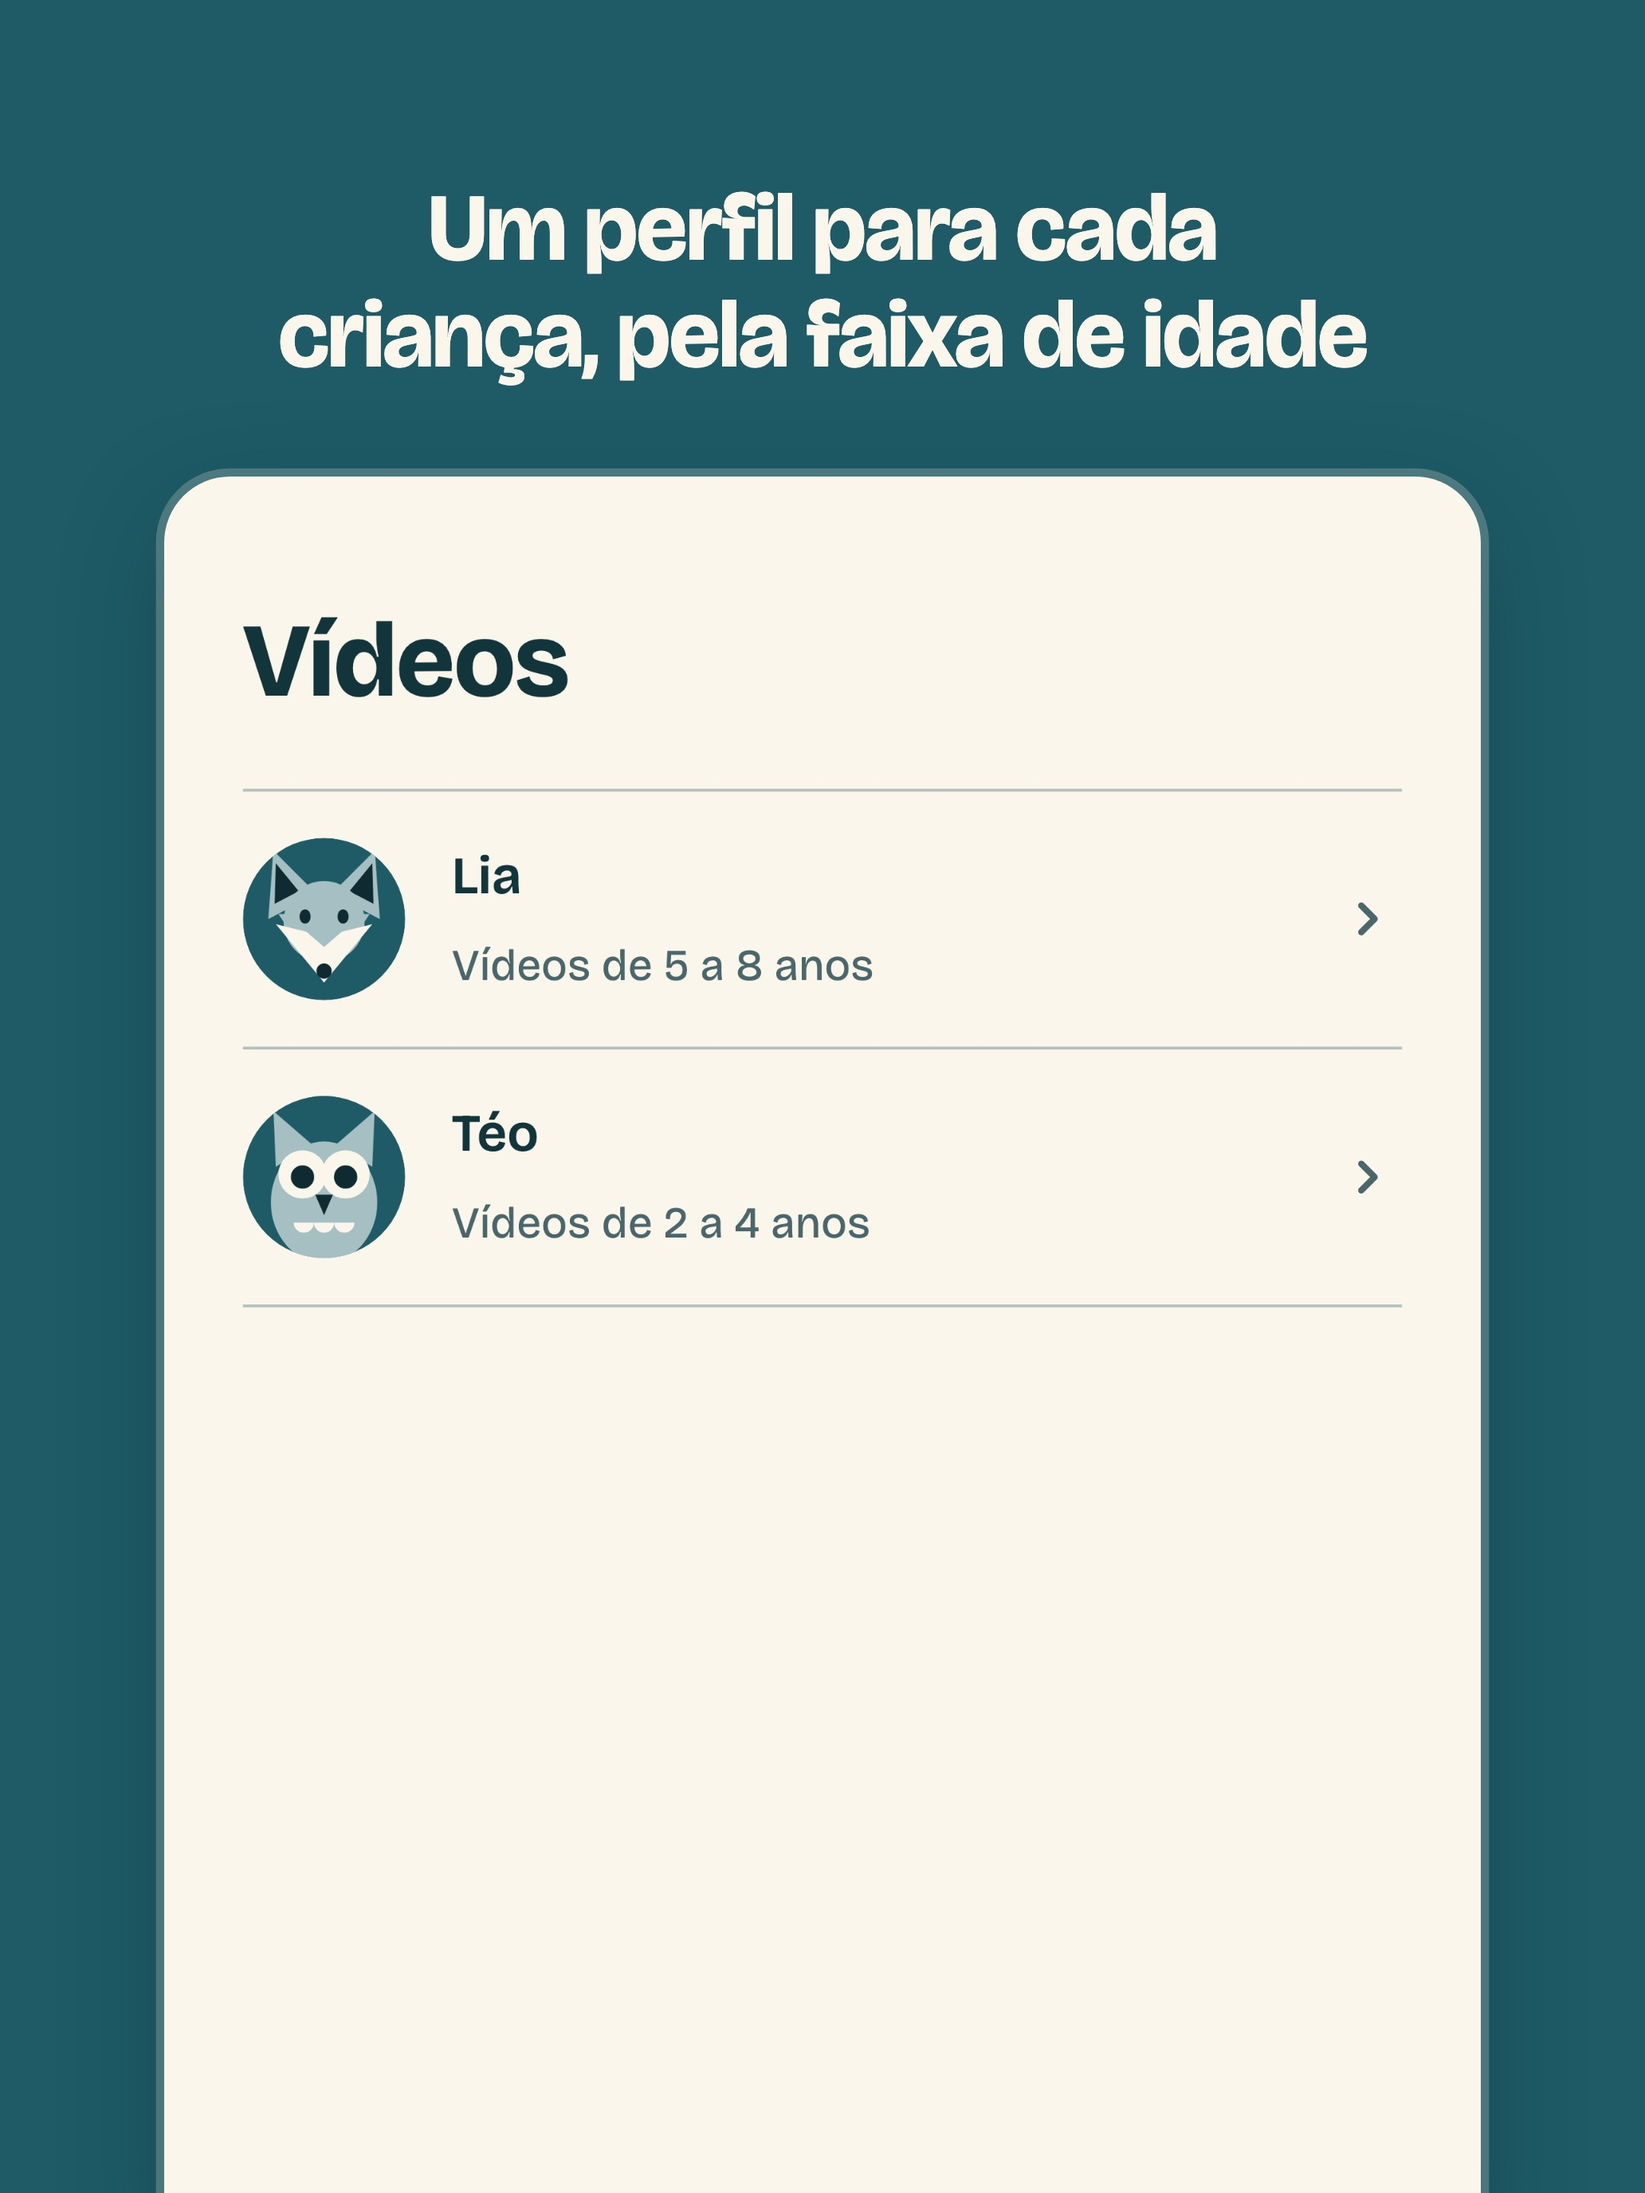
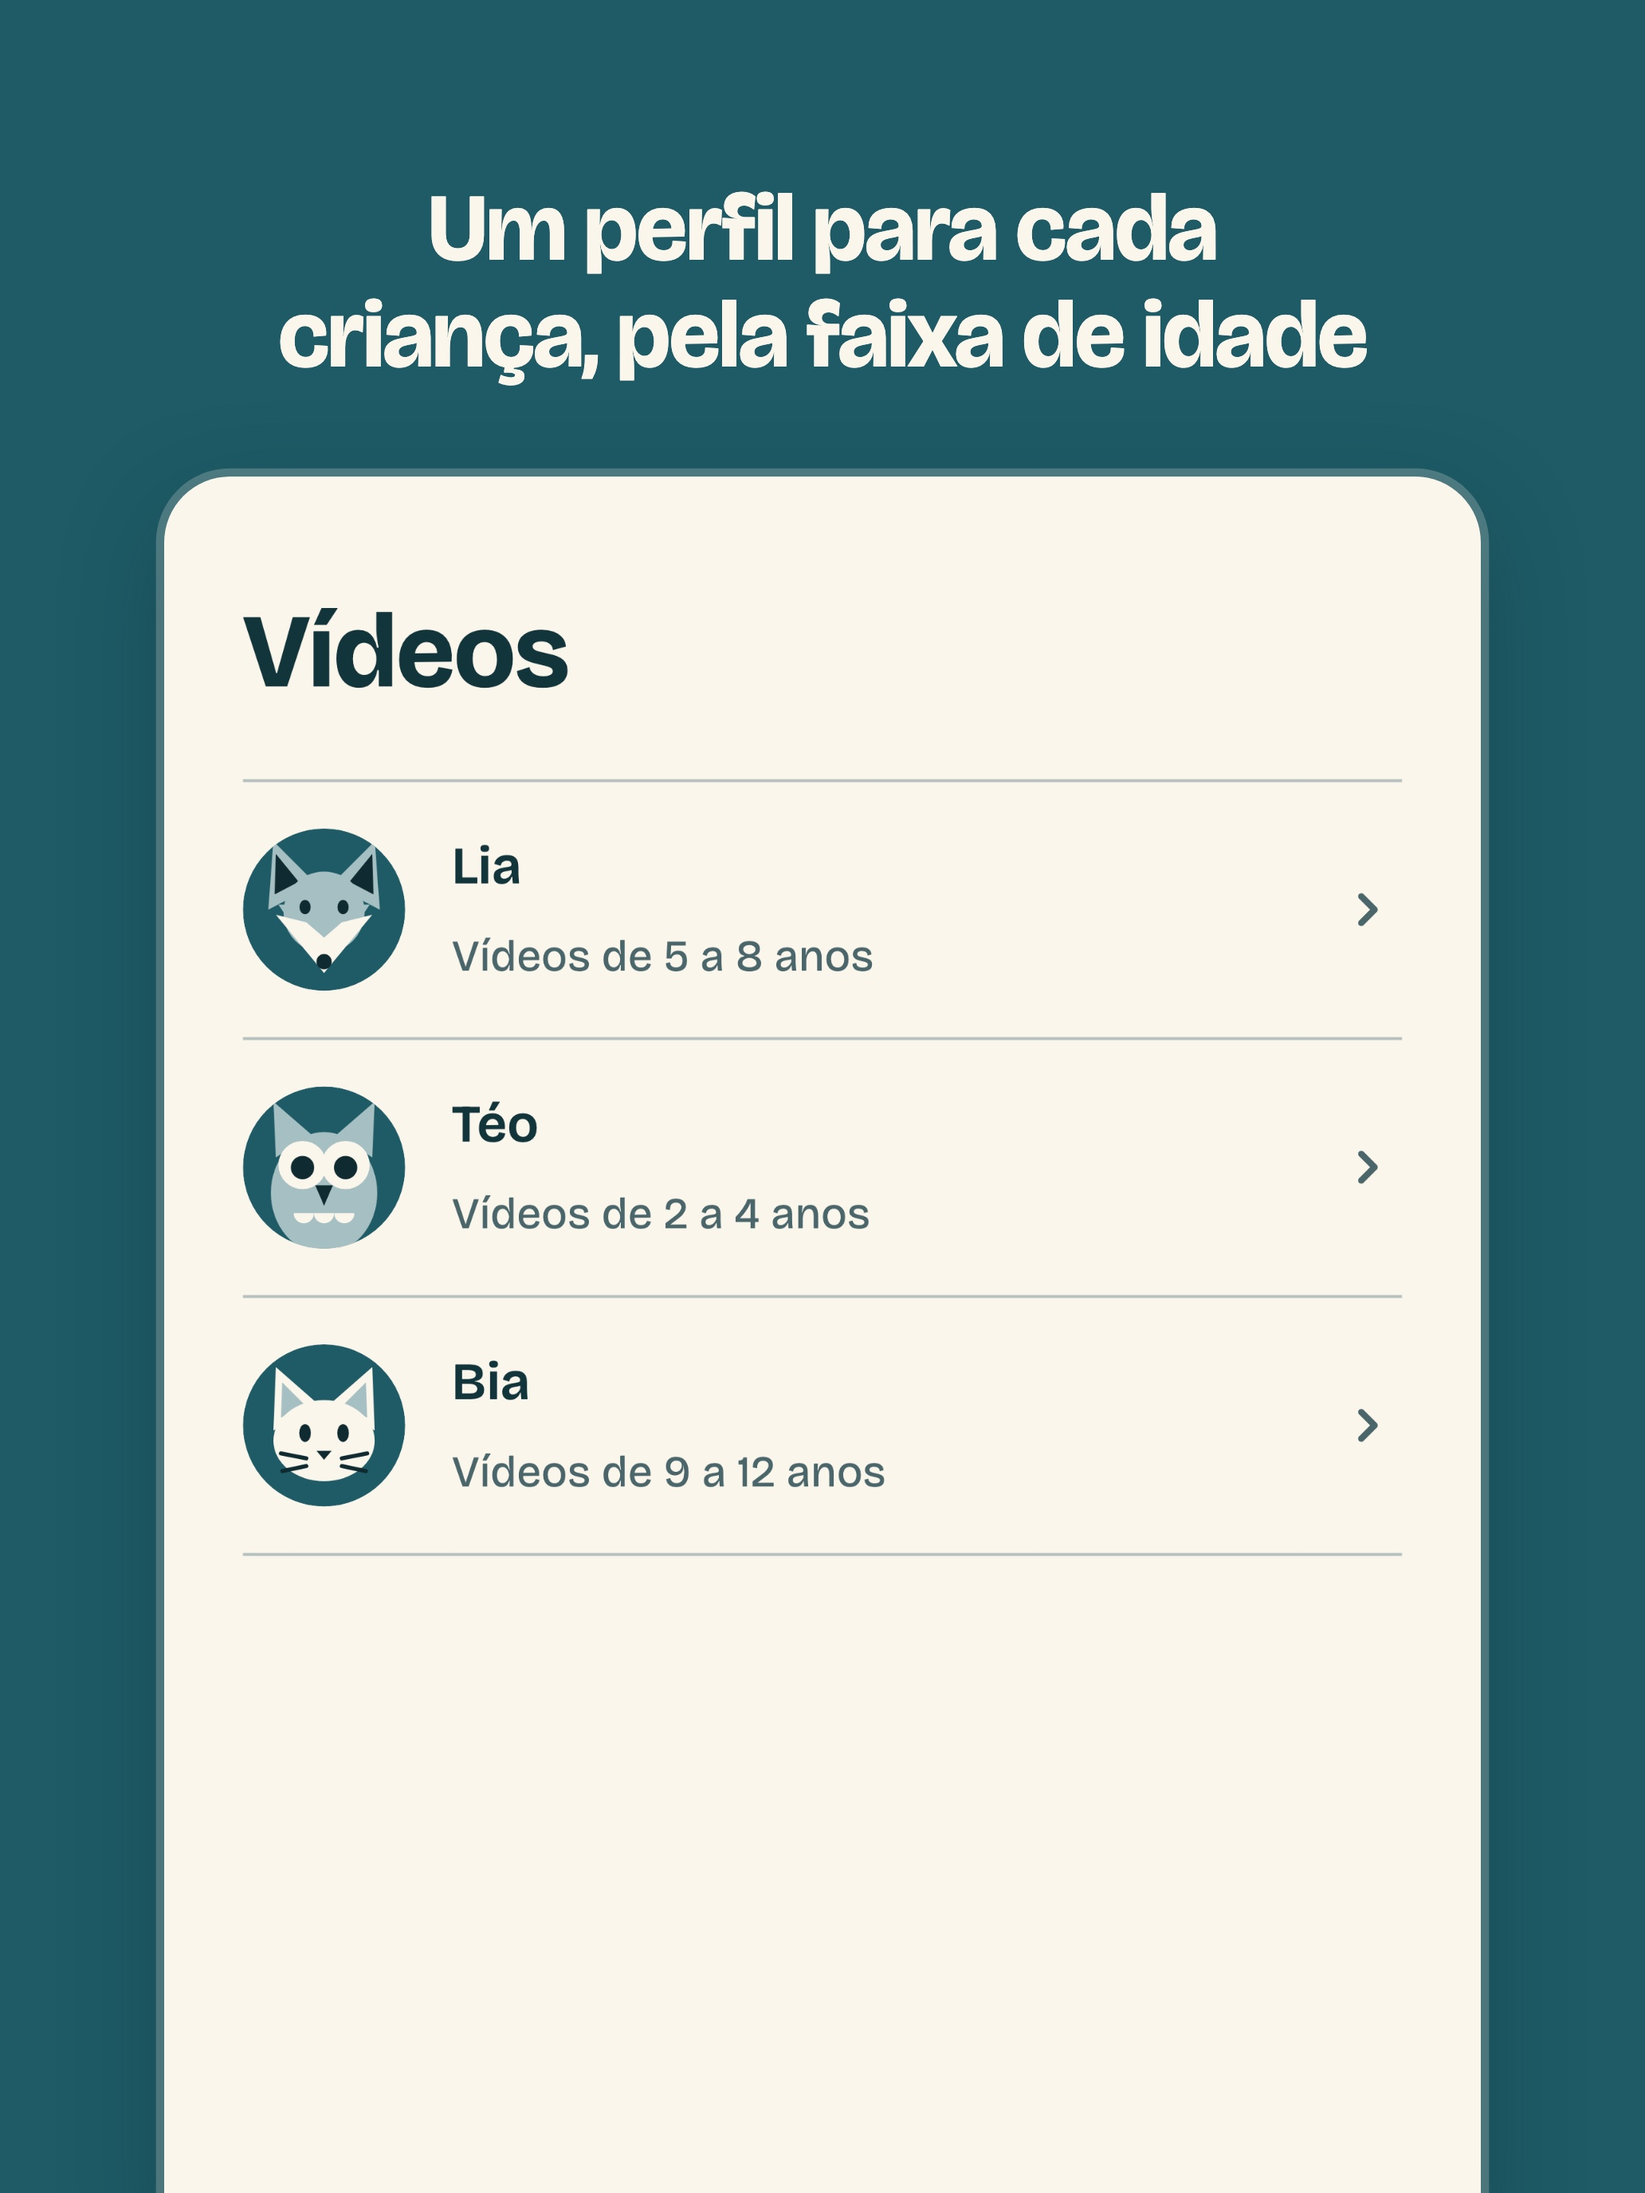
feat(app): a third child and device fill the store frames
Bia (cat, 9 to 12) and her tablet join the demo data. The longer lists sit higher on the iPad, so its 04 and 07 crops start a little higher to keep the page titles whole.

diff --git a/app/test/store_screens/store_screens_test.dart b/app/test/store_screens/store_screens_test.dart
@@ -50,10 +50,12 @@ class Frame {
 
 final outDir = Directory('build/store_screens/raw');
 
-/// Two fictional children: Lia (fox, 5 to 8) and Téo (owl, up to 4).
+/// Three fictional children: Lia (fox, 5 to 8), Téo (owl, up to 4) and
+/// Bia (cat, 9 to 12).
 final demoFamily = familyWith([
   minorJson('m1', 'Lia'),
   minorJson('m2', 'Téo', avatar: 'owl', ageBand: 'ate-4'),
+  minorJson('m3', 'Bia', avatar: 'cat', ageBand: '9-12'),
 ]);
 
 /// The part of a capture a frame shows, as fractions of the capture: from
@@ -195,18 +197,22 @@ void main() {
       await h.pump(tester, initial: '/crianca/sair', size: size);
     }),
     // One row per child, the age band in words.
-    Frame('04', ['5 a 8 anos', '2 a 4 anos'], (tester, size) async {
+    Frame('04', ['5 a 8 anos', '2 a 4 anos', 'Bia'], (tester, size) async {
       final h = Harness(signedIn: true, api: catalogApi())..family = demoFamily;
       await h.pump(tester, initial: '/familia/videos', size: size);
     }),
     // The devices linked to each child.
-    Frame('07', ['Tablet da Lia', 'Celular do Téo'], (tester, size) async {
+    Frame('07', ['Tablet da Lia', 'Celular do Téo', 'Tablet da Bia'], (
+      tester,
+      size,
+    ) async {
       final h = Harness(signedIn: true, api: (_) => http.Response('', 204))
         ..family = demoFamily
         ..pinSet = true;
       h.linkedDevices = [
         device('d1', 'Tablet da Lia', 'm1'),
         device('d2', 'Celular do Téo', 'm2', daysAgo: 1),
+        device('d3', 'Tablet da Bia', 'm3'),
       ];
       unawaited(h.services.familyModel.load());
       await h.pump(tester, initial: '/modo-crianca/aparelhos', size: size);
